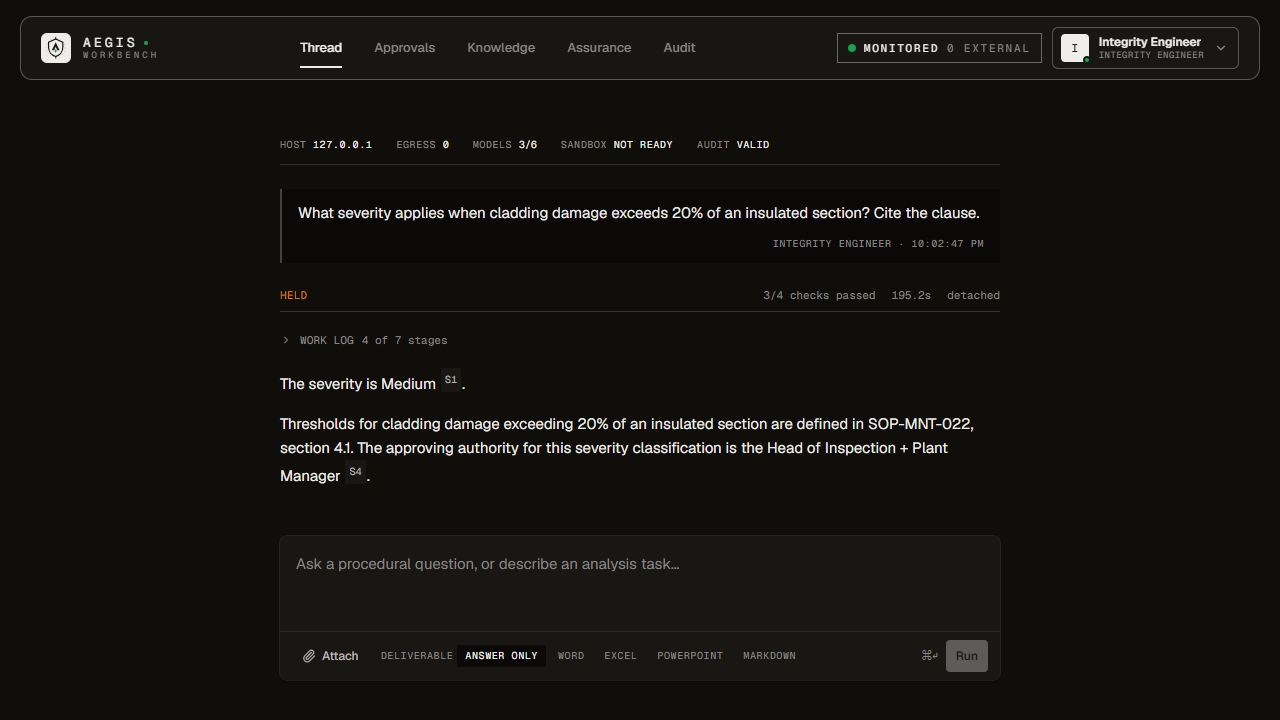
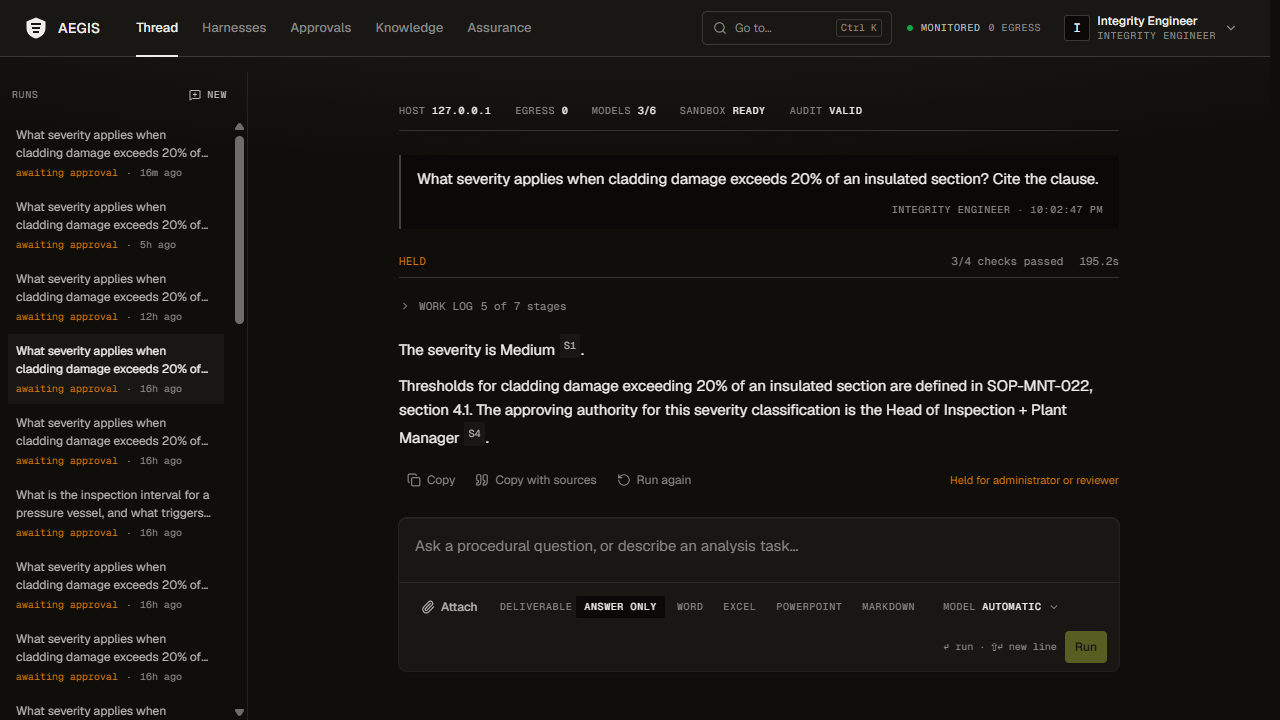
Recapture the product shot in the console as it now is
The landing page's screenshot was of a console that no longer exists --
the floating header, the six-idea logo, and a status strip reading
SANDBOX NOT READY, which stopped being true when containment started
working on this host. It is recaptured from the same run, 5aa3e4b6, so
the page still tells one run's story from the screenshot through the
citation inspector below it.

The recapture also closes the one place the page disagreed with its own
picture. The old console read that run's work log as 4 of 7 stages while
the audit log recorded five, because it got no event when drafting
began; it now reconciles its board with the task record, and the picture
reads 5 of 7. The note that explained the discrepancy is gone and the
alt text says what the image now shows.

diff --git a/frontend/components/landing/copy.ts b/frontend/components/landing/copy.ts
@@ -62,7 +62,7 @@ export const HERO = {
   secondary: { label: 'Read the source', href: REPO_URL },
   repoPath: REPO_PATH,
   shotAlt:
-    'The AEGIS console after a completed run: a question about cladding damage severity, the verdict HELD with three of four checks passed, a folded work log reading 4 of 7 stages, and a three-sentence answer citing S1 and S4.',
+    'The AEGIS console after a completed run: a question about cladding damage severity, the verdict HELD with three of four checks passed, a folded work log reading 5 of 7 stages, and a three-sentence answer citing S1 and S4.',
   // The two captions below name the run in the picture, so each has a
   // version for when run.json holds a different one.
   shotCaption:
@@ -352,11 +352,6 @@ export const RUN = {
   ] satisfies Stage[],
   closing:
     'The task then stops. A deliverable is held until a role holding approval.decide signs it, and the role that ran the task is not that role.',
-  // The one place the page and its own screenshot disagree, stated rather
-  // than left for a reader to find. features/thread/ui/thread-view.tsx maps
-  // backend statuses to stage rows, and TaskStatus has no drafting state.
-  consoleNote:
-    'The work log in the screenshot reads 4 of 7. The console gets no event when drafting starts, so it cannot mark Draft as run; the audit log records the drafting call, and this table is read from the audit log.',
 } as const
 
 // --------------------------------------------------------------------------- //

diff --git a/frontend/components/landing/product-shot.tsx b/frontend/components/landing/product-shot.tsx
@@ -6,8 +6,10 @@ export interface ProductShotProps {
   caption: string
   /**
    * What the image shows, as the image shows it. Describes the pixels rather
-   * than vouching for them: the work log in the picture reads "4 of 7", and
-   * the audit log says five stages ran, so the alt text says "reading".
+   * than vouching for them, so the alt text says "reading". (An earlier
+   * capture read "4 of 7" while the audit log said five stages ran; the
+   * console now reconciles its board with the record, and the recaptured
+   * picture reads 5 of 7.)
    */
   alt: string
   /** The facts of the run in the image, from its record. Empty when the fixture is another run. */

diff --git a/frontend/app/(marketing)/page.tsx b/frontend/app/(marketing)/page.tsx
@@ -586,9 +586,6 @@ export default function LandingPage() {
           />
           <div className="mt-6 flex flex-col gap-3">
             <p className={`m-0 text-body leading-[22px] text-foreground-secondary ${PROSE}`}>{RUN.closing}</p>
-            {isScreenshotRun ? (
-              <p className={`m-0 text-ui leading-[18px] text-foreground-muted ${PROSE}`}>{RUN.consoleNote}</p>
-            ) : null}
           </div>
         </Reveal>
       </SectionShell>
